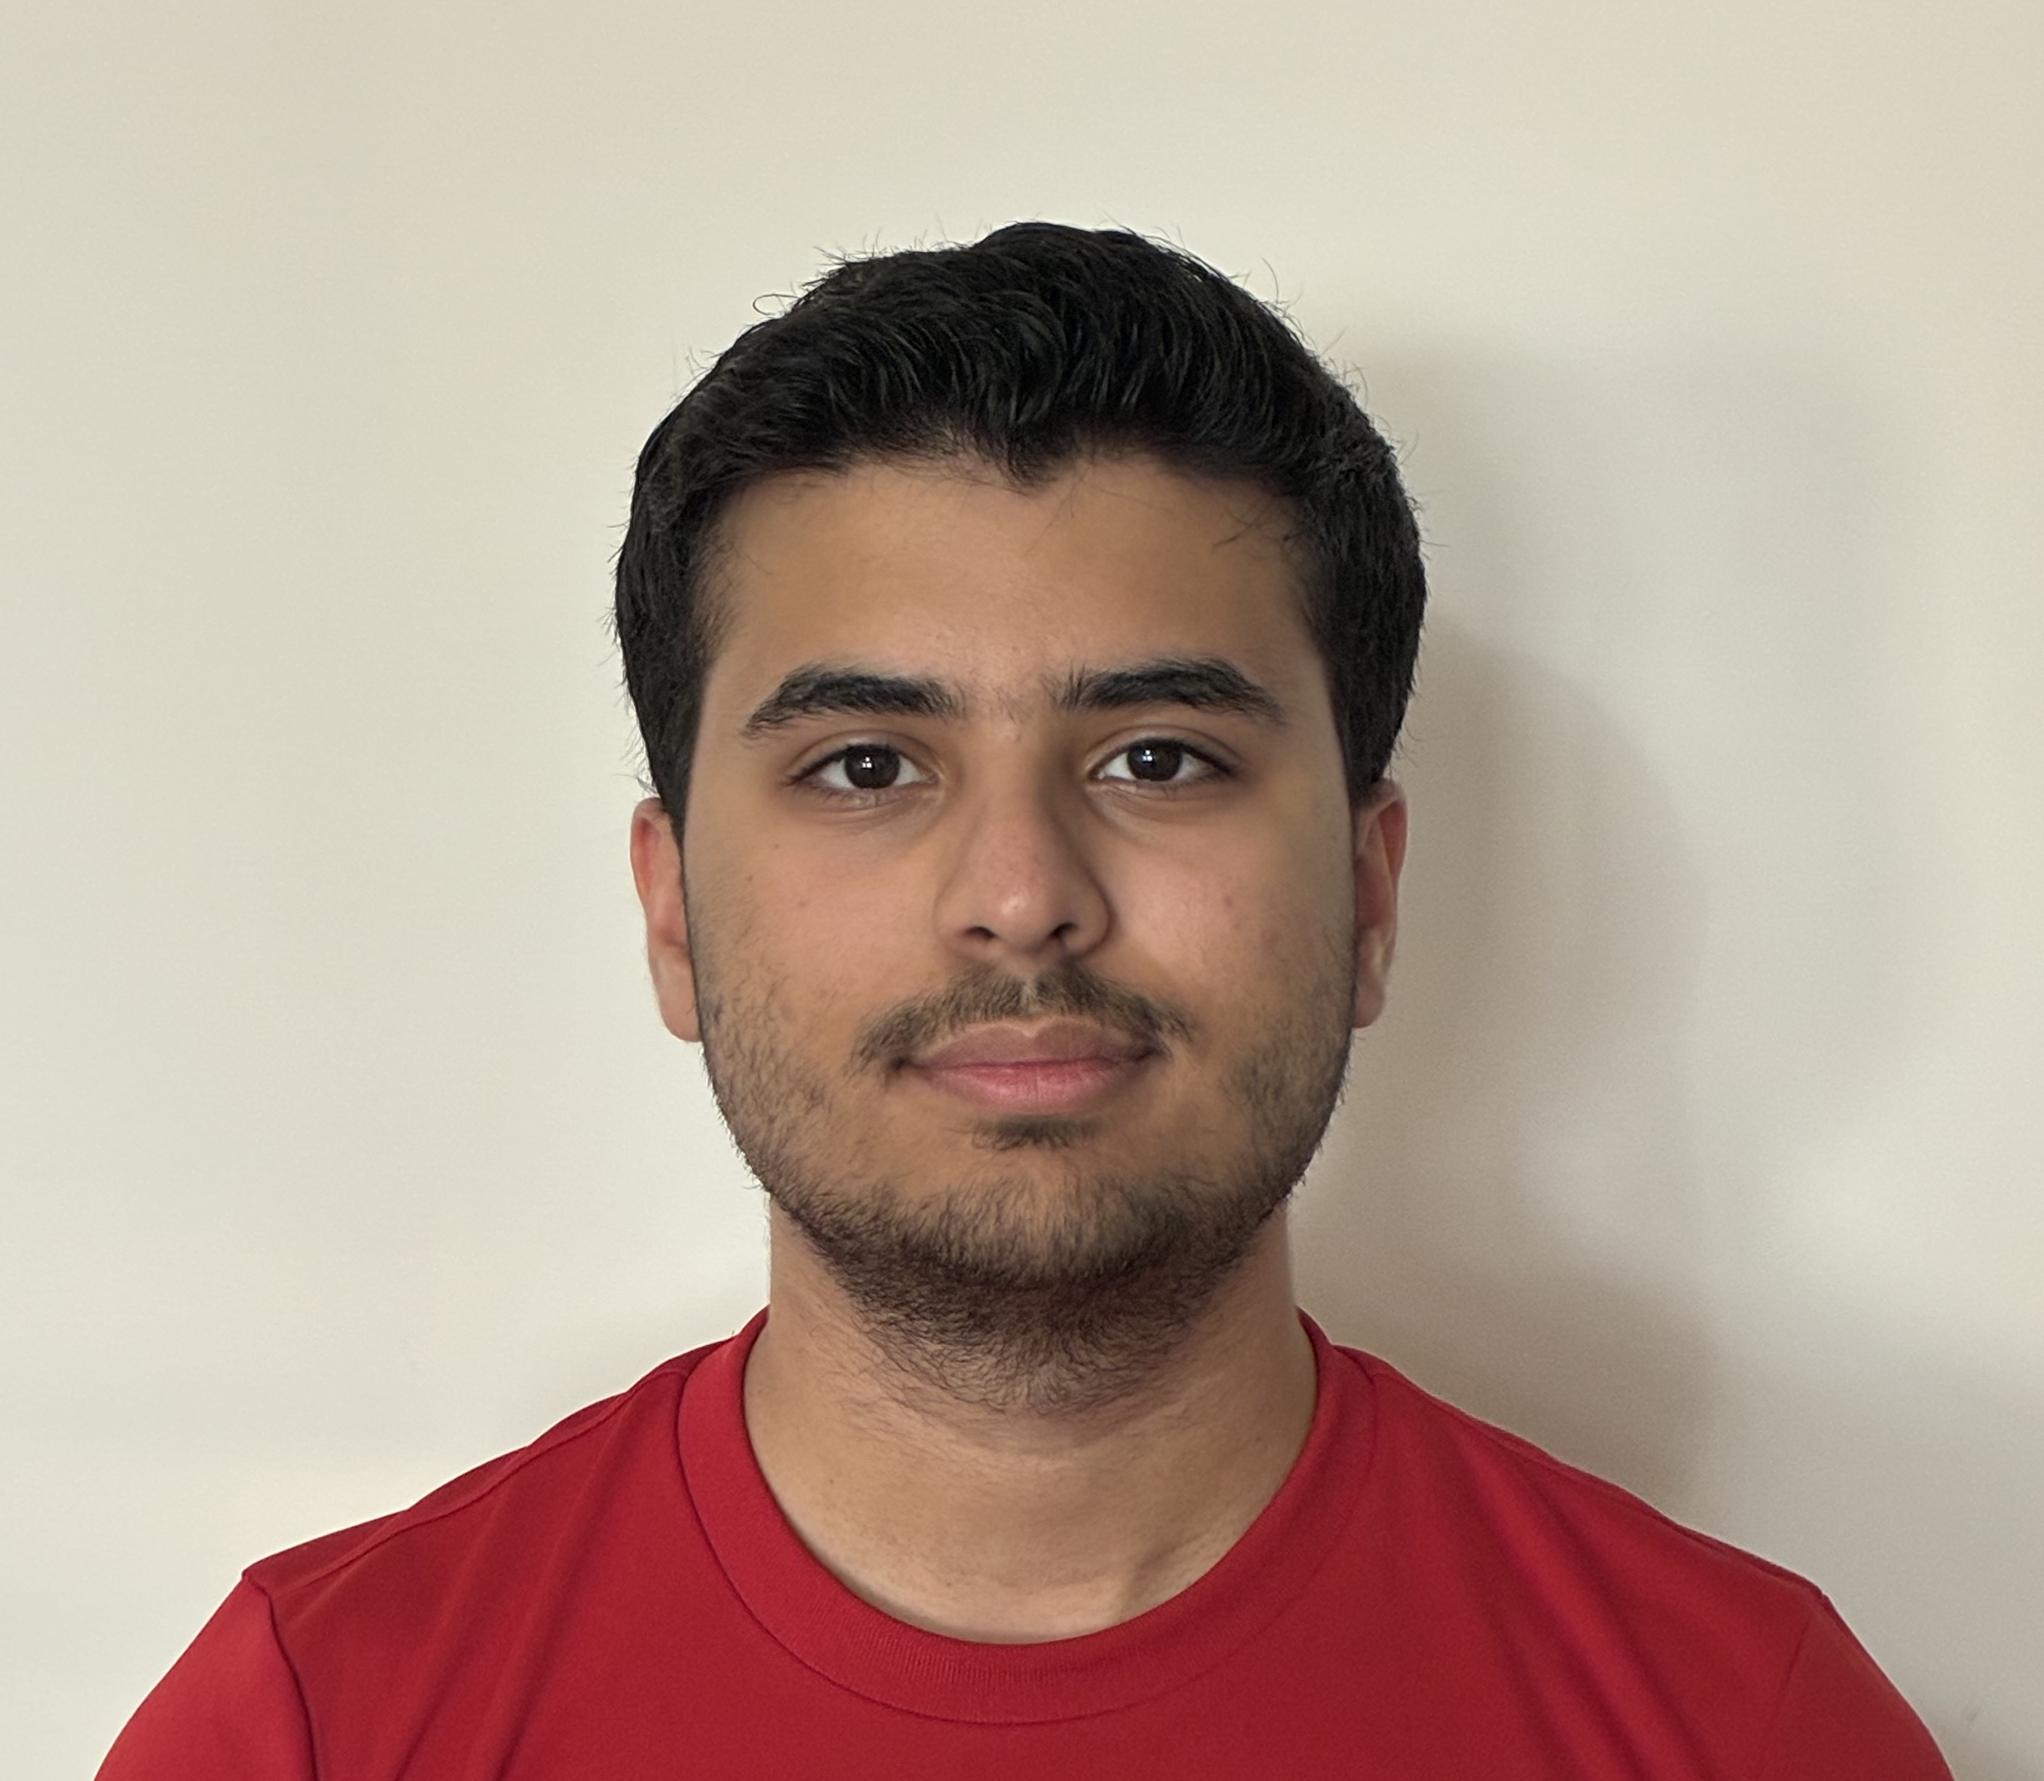
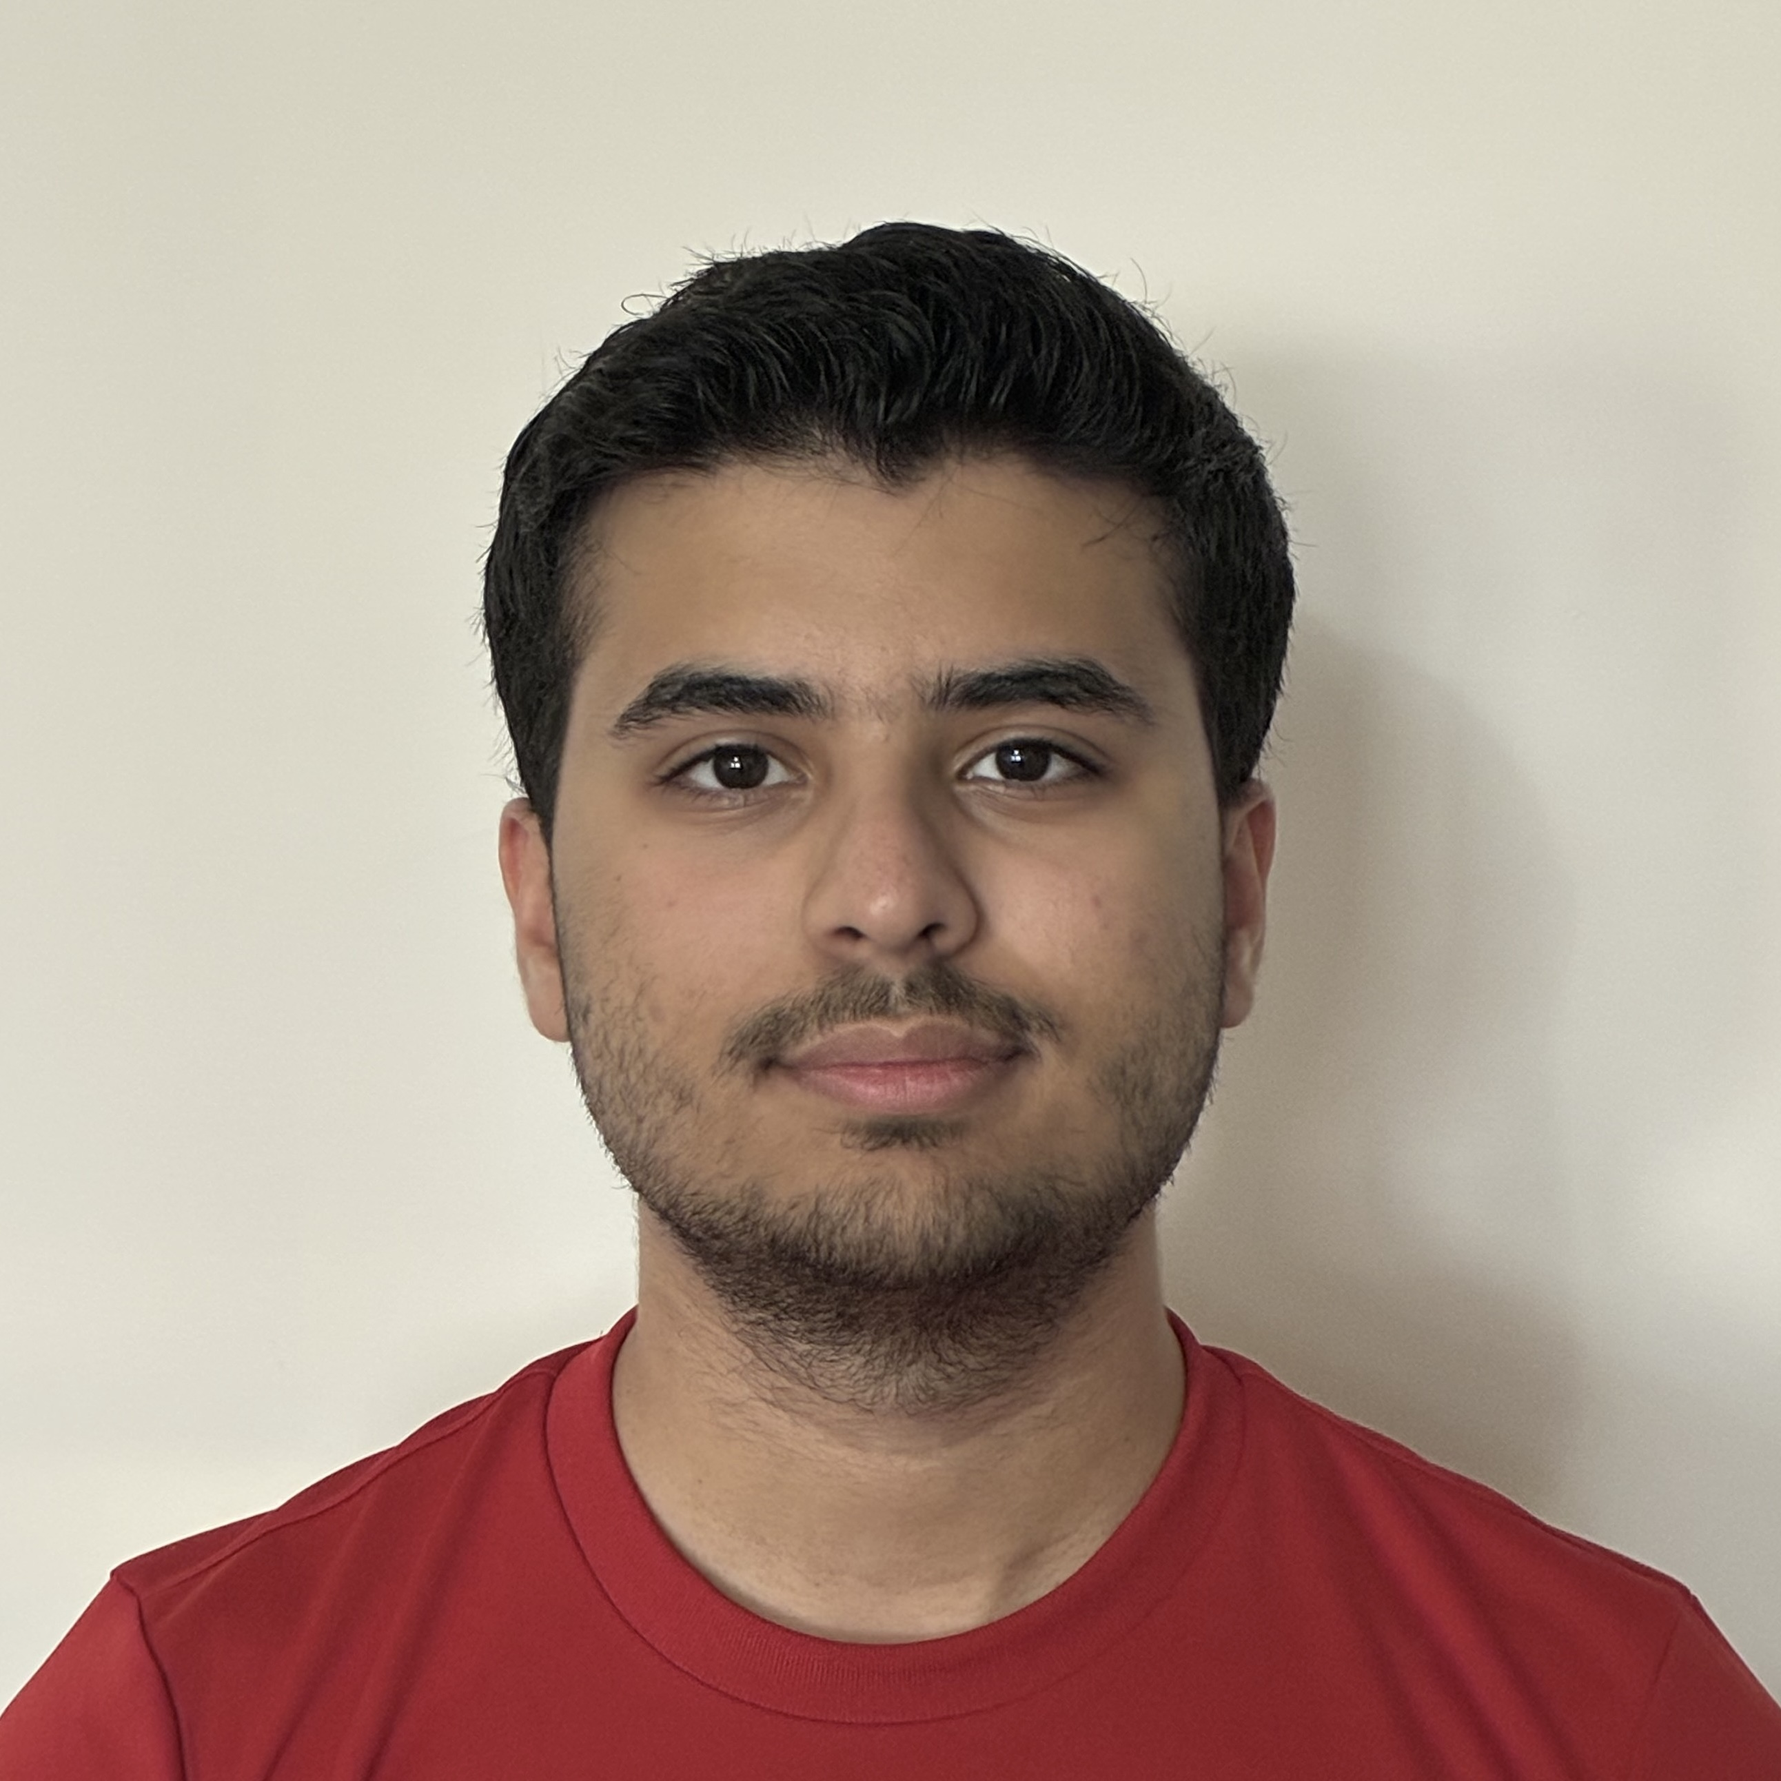
add zain & nelavan and crop images to be square

diff --git a/src/content/profileCards/nelevan-karunanithi.md b/src/content/profileCards/nelevan-karunanithi.md
@@ -1,0 +1,9 @@
+---
+name: "Nelevan Karunanithi"
+title: "Second Year Rep"
+image: "/about/profile-photos/nelavan-karunanithi.jpg"
+socials:
+  {
+    email: "karunn1@mcmaster.ca",
+  }
+---

diff --git a/src/content/profileCards/zain-khalbous.md b/src/content/profileCards/zain-khalbous.md
@@ -1,0 +1,9 @@
+---
+name: "Zain Khalbous"
+title: "Merch Lead"
+image: "/about/profile-photos/zain-khalbous.jpg"
+socials:
+  {
+    email: "Khalbouz@mcmaster.ca",
+  }
+---
